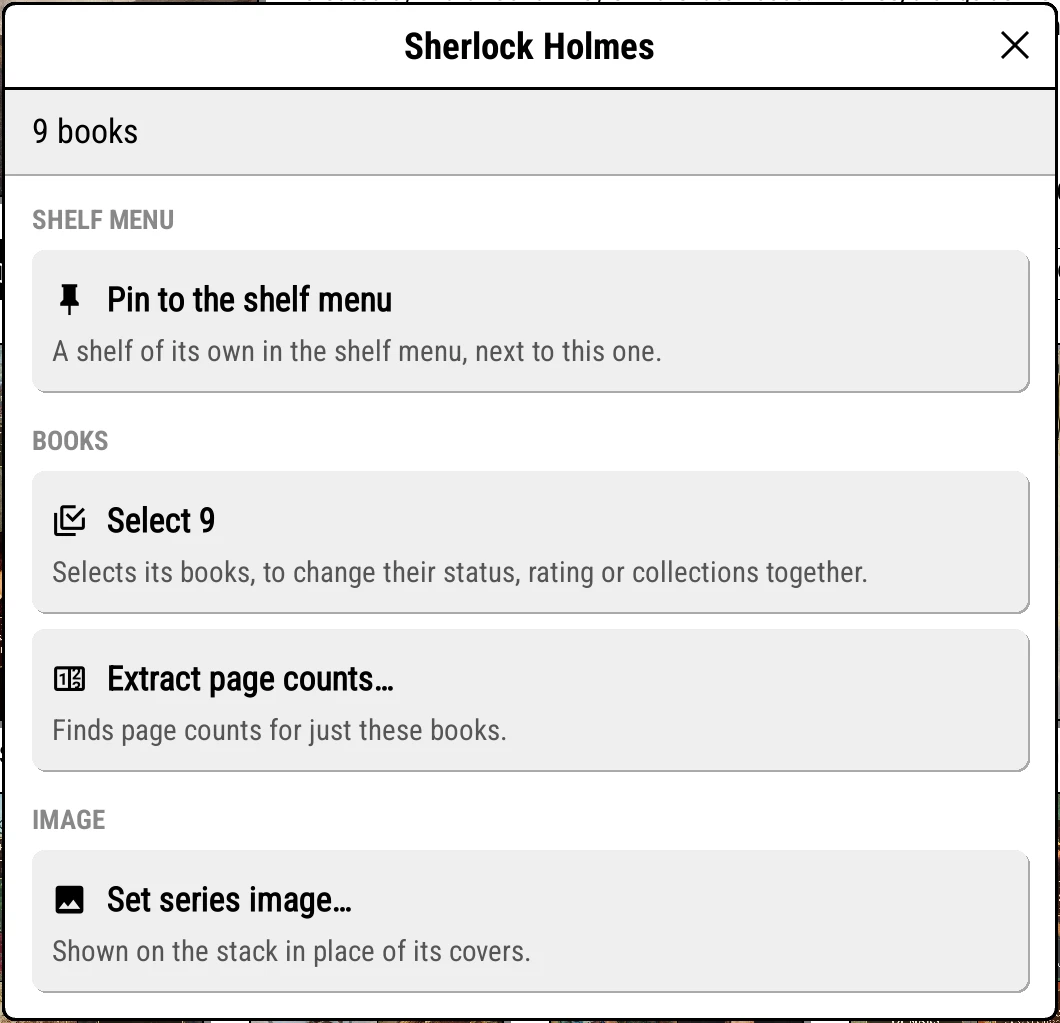
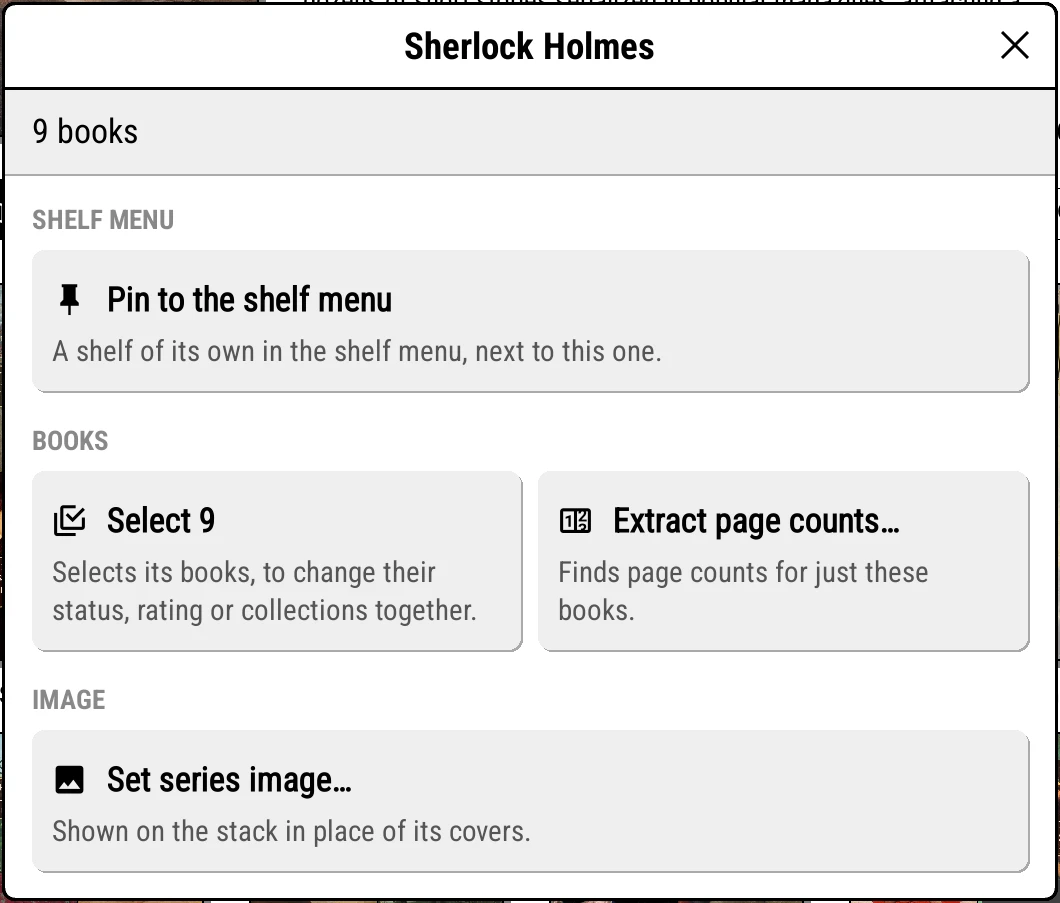
6.3: %published, Delete folder, and page counts leave opened books alone
Claude-Session: https://claude.ai/code/session_01JgJkg2kpmXwo4V6m4aKBga

diff --git a/docs/reference/menus.md b/docs/reference/menus.md
@@ -876,7 +876,7 @@ Footer
 
 ### Group menu
 
-**Long-press a stack or folder** (series, author, genre, collection, format, rating, language, folder, or a series box). A page of option cards, each with a line saying what it does.
+**Long-press a stack or folder** (series, author, genre, collection, format, rating, language, folder, or a series box). A page of option cards, each with a line saying what it does. For a folder, **Move…**, **Rename…** and **Delete…** sit beside the book count at the top.
 
 !shot:side group-menu | Group menu for a series
 
@@ -884,7 +884,6 @@ Footer
 - **Books**: **Select *N***, **Add *N* more** or **Remove *N*** for [bulk selection](#bulk-selection), and **Extract page counts…** for just these books.
 - **Spines** (series only): **Book binding**, **Same as shelf**, **Hardback** or **Paperback**, for this series' books on every shelf. Default: Same as shelf.
 - **Image**: **Set folder image…** and **Clear folder image** for a folder; **Set *kind* image…** and **Clear *kind* image** for a series, author, genre or collection. Authors also get **Find author image online**.
-- **Folder** (folders only): **Move folder…** and **Rename folder…**.
 
 ### Bulk selection
 

diff --git a/docs/reference/whats-new.md b/docs/reference/whats-new.md
@@ -4,9 +4,17 @@ description: What's new in recent versions of Bookshelf, with links to where eac
 
 # What's new
 
-<span class="tag">These pages describe Bookshelf 6.2</span>
+<span class="tag">These pages describe Bookshelf 6.3</span>
 
 Full release notes for every version are on [GitHub Releases](https://github.com/AndyHazz/bookshelf.koplugin/releases), and in the app under **Bookshelf > Updates > View changelog**.
+
+## 6.3
+
+**A publication year token**
+:   `%published` gives a book's publication year, from Calibre, the OPDS catalogue (kept when you download a book) or the book file itself. Add it after the author with `%authors_short [if:published](%published)[/if]`, which shows nothing for a book with no date. [More](tokens.md)
+
+**Delete a folder**
+:   Long-press a folder: **Delete…** sits beside its book count with **Move…** and **Rename…**, and asks before it removes the folder and everything in it. [More](../organise/folders.md#moving-renaming-and-deleting)
 
 ## 6.2
 

diff --git a/docs/organise/folders.md b/docs/organise/folders.md
@@ -10,9 +10,9 @@ To see a single folder as a shelf of its own, add a shelf with **A folder** as i
 
 !shot folder-picker | Picking a folder
 
-## Moving and renaming
+## Moving, renaming and deleting
 
-Long-press a folder for **Move folder…** and **Rename folder…**. They change the folder on disk, and every book's progress, highlights and covers go with it.
+Long-press a folder: **Move…**, **Rename…** and **Delete…** are beside its book count. Moving and renaming change the folder on disk, and every book's progress, highlights and covers go with it. **Delete…** says how many books are in the folder and asks before it removes the folder and everything in it. It won't delete your home folder, or a folder holding the book you have open.
 
 To move single books, use **Move…** in a book's [Edit tab](../use/book-menu.md#the-edit-tab), or select several and use **Move to folder…**.
 

diff --git a/docs/use/book-menu.md b/docs/use/book-menu.md
@@ -112,7 +112,7 @@ Other plugins that add entries to KOReader's file menu, like **Open Incognito**,
 - **Book binding**, for a series on a spines shelf: **Same as shelf**, **Hardback** or **Paperback**, for that series on every shelf. **Same as shelf** uses the shelf's own **Book binding**.
 - **Set … image…**: give it a picture of your own, shown in place of its covers. See [Folders](../organise/folders.md).
 - **Find author image online**, for an author.
-- **Move folder…** and **Rename folder…**, for a real folder. Every book's progress and covers follow.
+- **Move…**, **Rename…** and **Delete…**, for a real folder: buttons beside its book count. Moving or renaming takes every book's progress and covers with it. **Delete…** asks first, then removes the folder and everything in it.
 
 ## Many books at once
 

diff --git a/docs/organise/page-counts.md b/docs/organise/page-counts.md
@@ -31,7 +31,7 @@ Tap **Start**. Progress shows in the top panel's status line, "Counting pages in
 
 ## Good to know
 
-- **A book you've opened uses KOReader's own count**, worked out at your reading settings, so spines agree with the reader.
+- **A book you've opened uses KOReader's own count**, worked out at your reading settings, so spines agree with the reader. **Only books without a page count** leaves it alone; **Every book, replacing earlier counts** counts it again.
 - **Counts are kept by Bookshelf**, not in each book's sidecar. Writing a sidecar would make KOReader think you'd opened the book.
 - **Delete scanned page counts…** clears the counts from earlier scans, keeping books you've opened.
 

diff --git a/docs/reference/tokens.md b/docs/reference/tokens.md
@@ -167,6 +167,7 @@ In the top panel and status line, `[font=NAME]` sets the font for the whole sect
 | `%filename` | File name | *Dune* |
 | `%format` | File format | *EPUB* |
 | `%size` | File size | *2.2 MB* |
+| `%published` | Publication year: from Calibre with **Read calibre metadata.calibre** on, else the OPDS catalogue (kept when you download a book), else the book file (EPUB, FB2, MOBI, AZW3, comics, PDF). Empty when there is none. Try `%authors_short [if:published](%published)[/if]`. | *1965* |
 | `%added` | Date the file was added | *2026-05-04* |
 | `%lang` | Language | *en* |
 | `%description` | The blurb, with formatting removed | |
